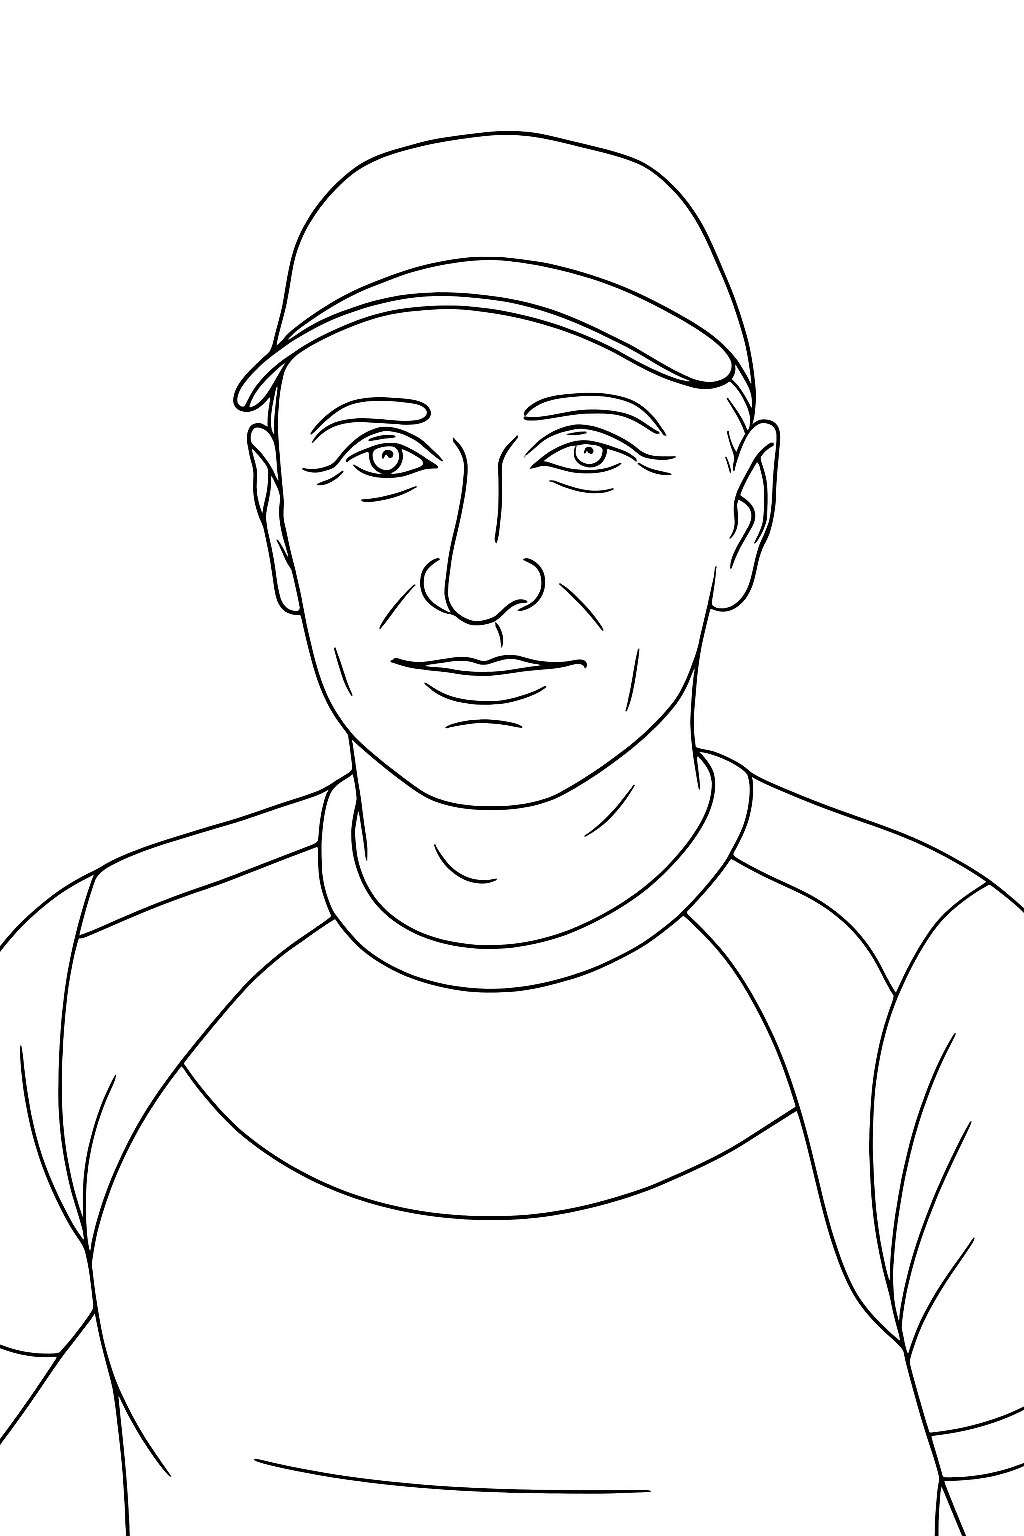
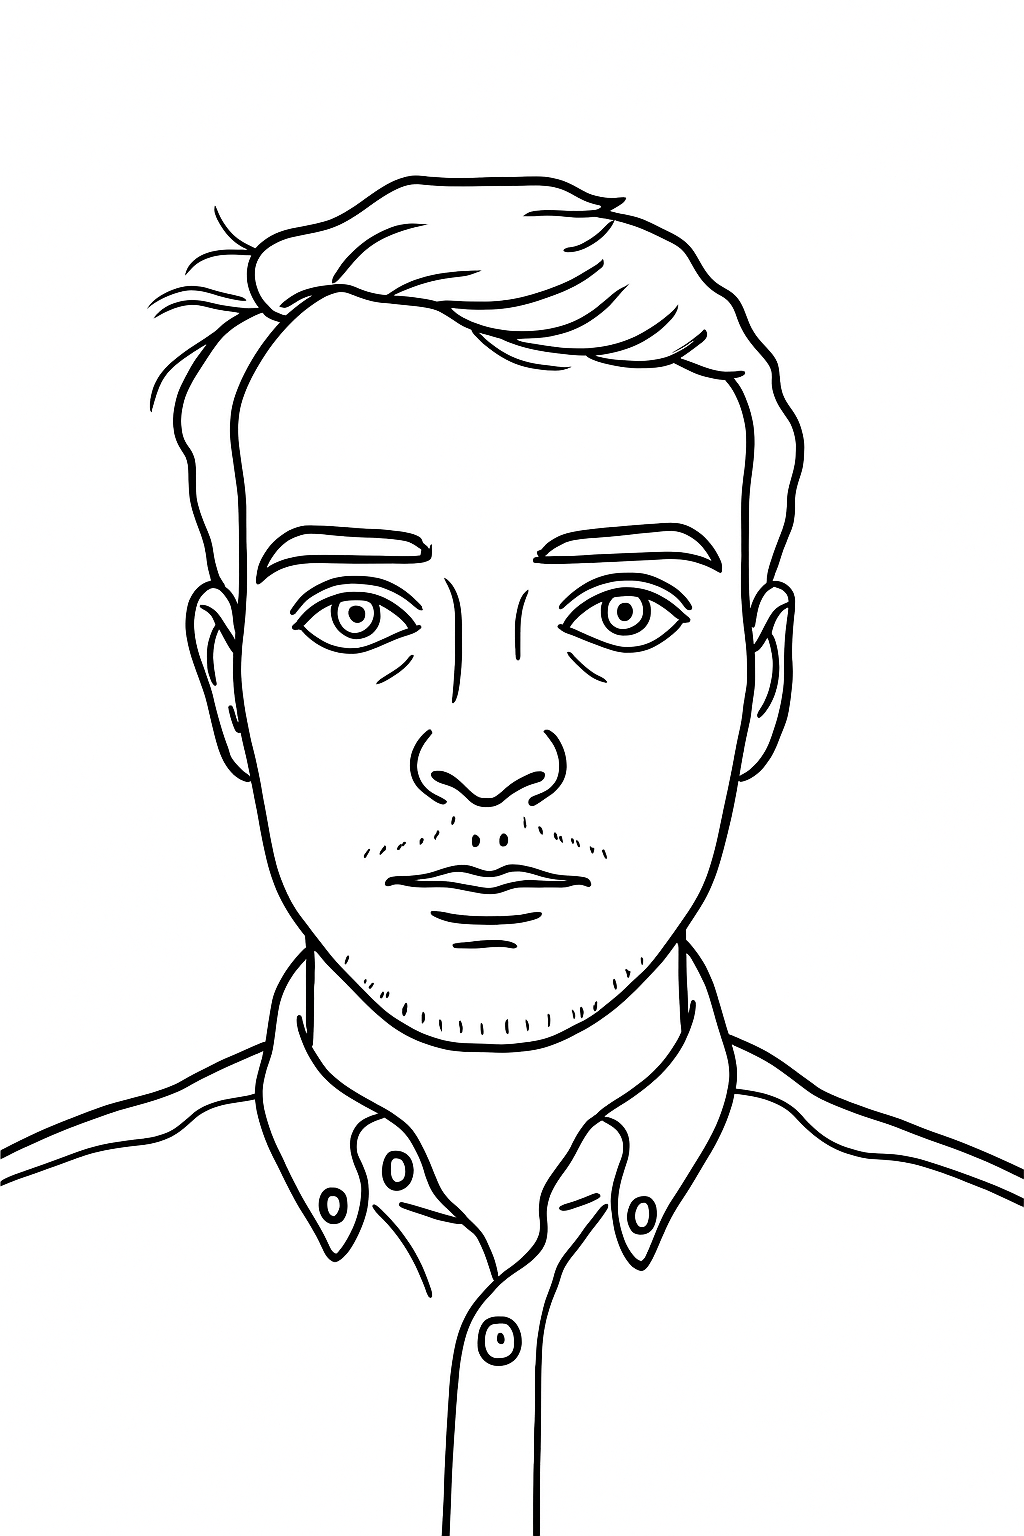
better prompts

diff --git a/convert_to_lineart.py b/convert_to_lineart.py
@@ -10,8 +10,7 @@ client = OpenAI(api_key="***REMOVED-OPENAI-KEY***")
 # Predefined prompts for different styles
 PROMPTS = {
     "minimalist": """
-        Create a minimalist line art portrait in black and white. Use clean, continuous outlines with no shading or color. Depict all key facial features in detail, including eyes, eyebrows, nose, lips, and hair, with clear and expressive lines. Emphasize the structure and expression of the face, but avoid sketchiness or extra hatching. The background should be plain white. The style should be simple, modern, and suitable for robotic drawing, similar to a detailed coloring book.
-    """,
+        Convert the input into a minimalist black-and-white line art portrait. Use only solid, continuous black outlines on a plain white background. Avoid shading, gradients, textures, or colors. Depict all essential facial features (eyes, eyebrows, nose, lips, hair if visible) with uniform stroke thickness and closed contours. The lines should be smooth, bold, and clean, suitable for binary thresholding and contour extraction. The style should be modern, simple, and precise, like a coloring book illustration or technical outline drawing.    """,
     "caricature": """
         Create a humorous caricature portrait in black and white line art. Exaggerate facial features in a playful, cartoon-like manner with oversized distinctive features. Use clean, bold outlines with no shading, emphasizing the subject's most recognizable characteristics in an amusing but respectful way. Plain white background.
     """
